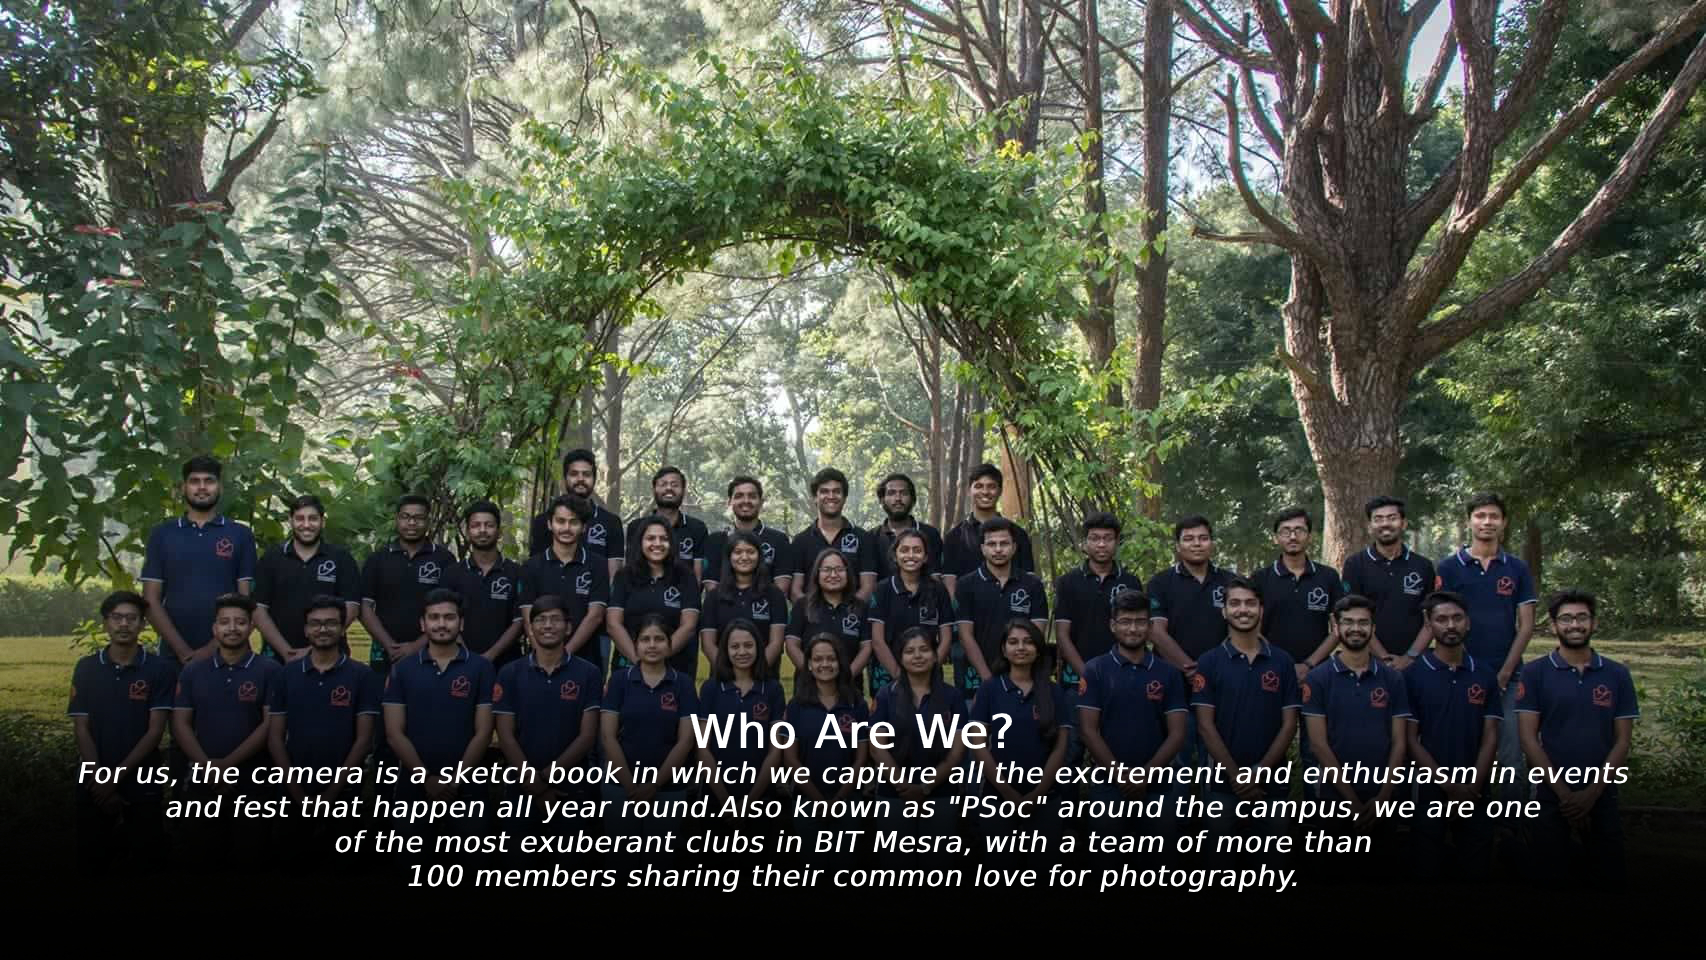
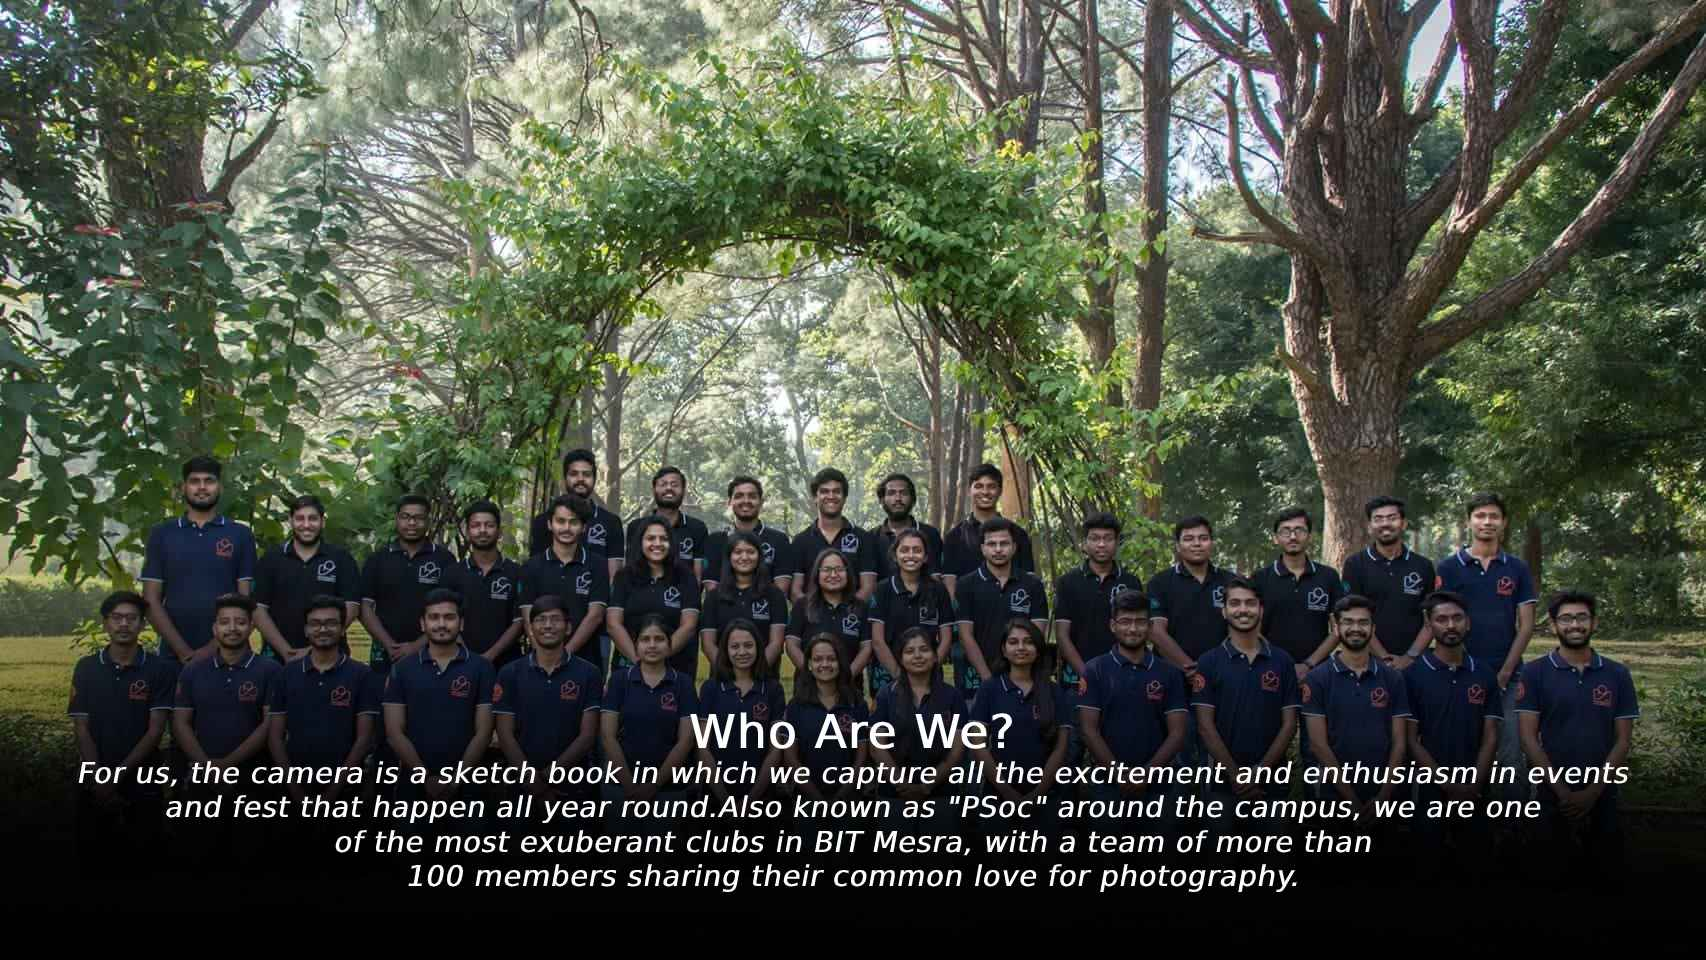
fixed

diff --git a/index.html b/index.html
@@ -400,7 +400,7 @@
                       </div>
                       <div class="item">
                           <div class="image">
-                              <img src="img/featured/4.jpeg" alt="">
+                              <img src="img/featured/4.jpg" alt="">
 
                           </div>
 
